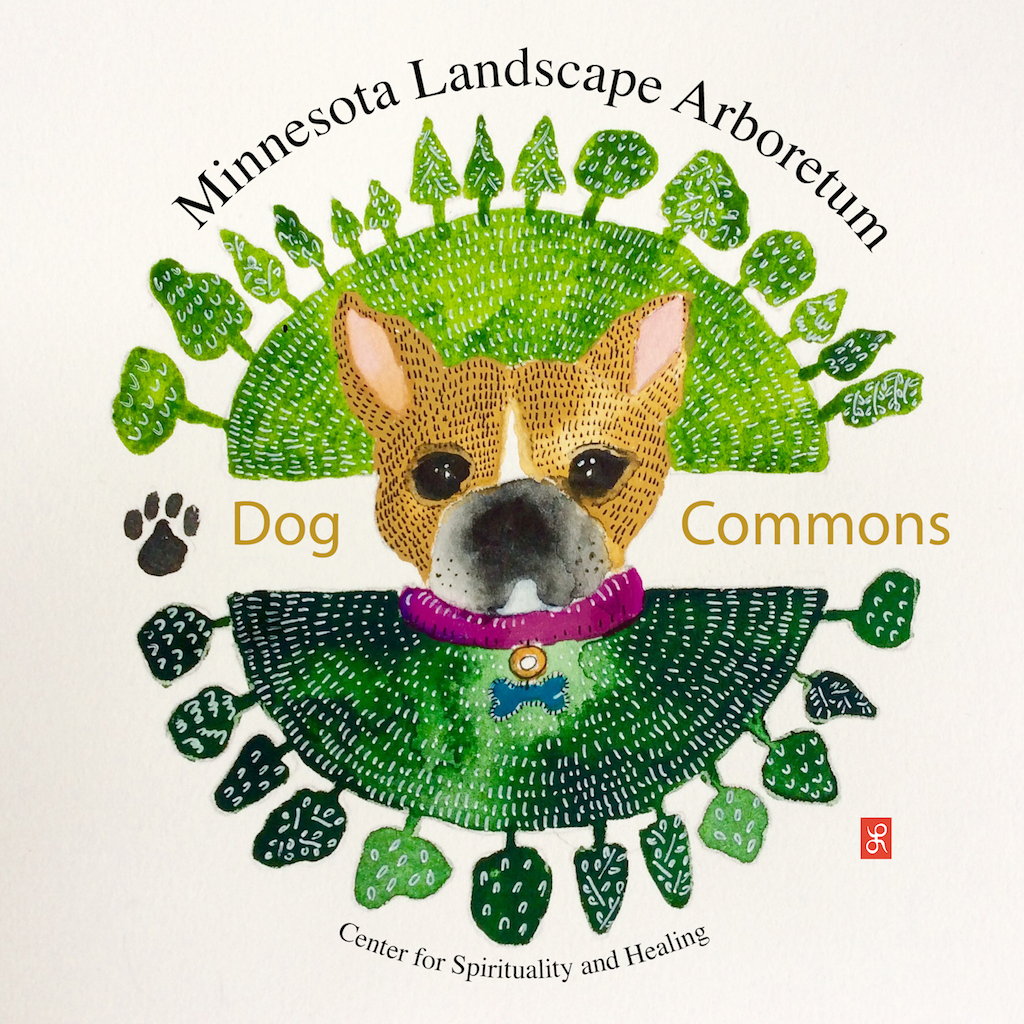
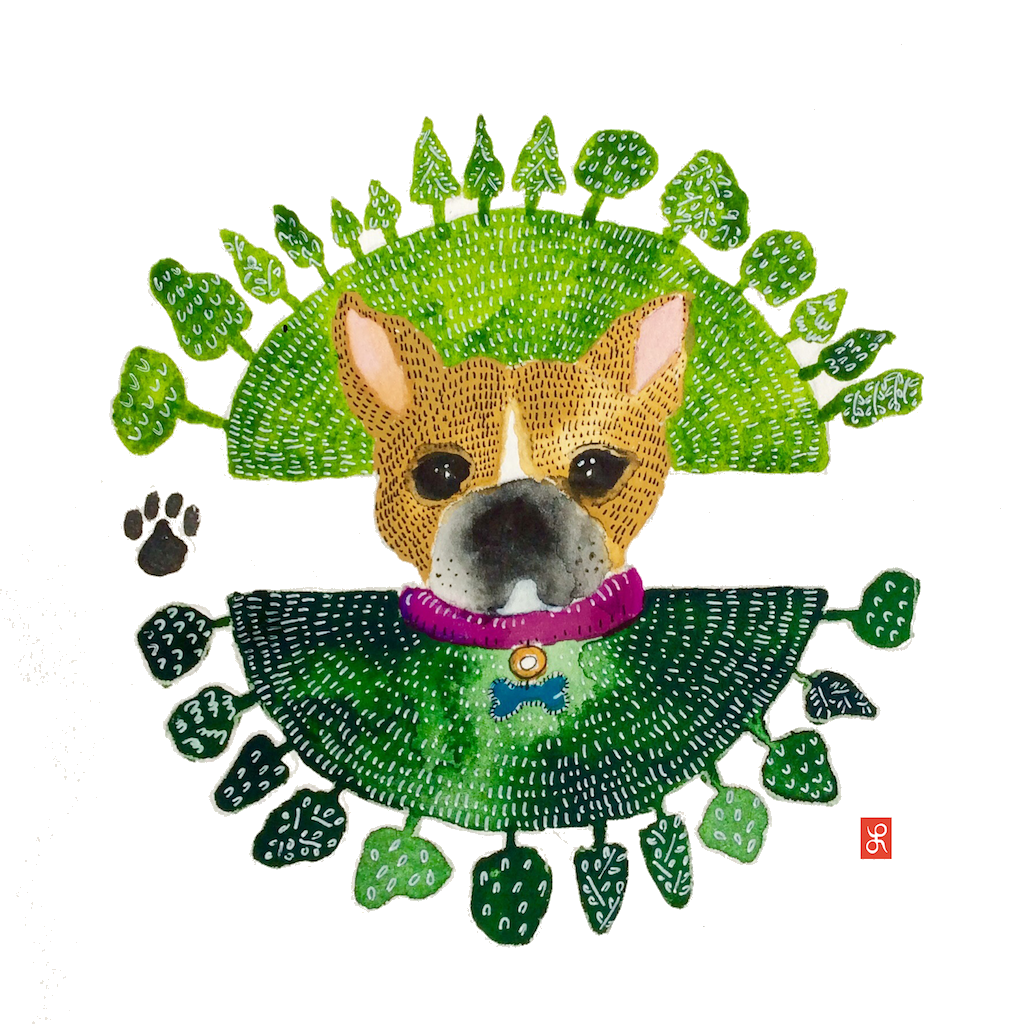
Primarily on the splash page:
* Replace the background image
* Align and style words at the bottom and bottom instead of center

In addition:

* Whiten the dog commons logo

diff --git a/app/client/views/splash/splash.css b/app/client/views/splash/splash.css
@@ -1,20 +1,24 @@
 .splash {
 	position: absolute;
-	top: 50vh;
 	width: 100%;
 	text-align: center;
-	transform: translateY(-50%);
-	-webkit-transform: translateY(-50%);
+	font-size: 2em;
+	text-shadow: 2px 2px 2px white;
 }
 
-.splash h1 {
+h1.splash {
+	top: 0;
 	margin: 20px;
+}
+
+h2.splash {
+	bottom: 0;
 }
 
 .splash-bg {
 	width: 100vw;
 	height: 100vh;
-	background: url('/splash.png') center center fixed; 
+	background: url('/splash.png') center center fixed;
 	-webkit-background-size: cover;
 	-moz-background-size: cover;
 	-o-background-size: cover;

diff --git a/app/client/views/splash/splash.html b/app/client/views/splash/splash.html
@@ -1,8 +1,6 @@
 <template name="Splash">
-	<div class="splash-bg"></div>
-	<div class="splash">
-		<h1>Nature Heals</h1>
-		<span>Enter</span>
+	<div class="splash-bg">
+		<h1 class="splash">Nature Heals</h1>
+		<h2 class="splash">Enter</h2>
 	</div>
 </template>
-
